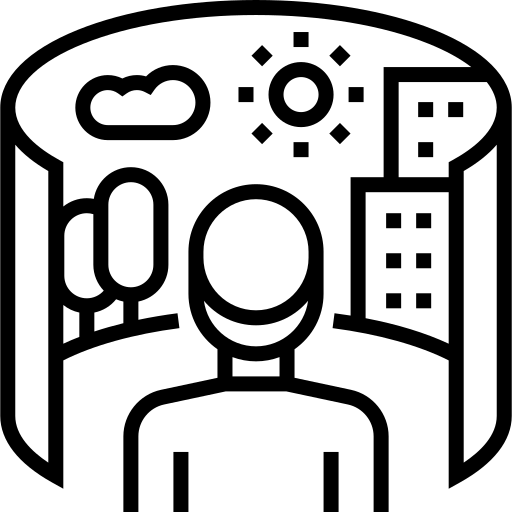
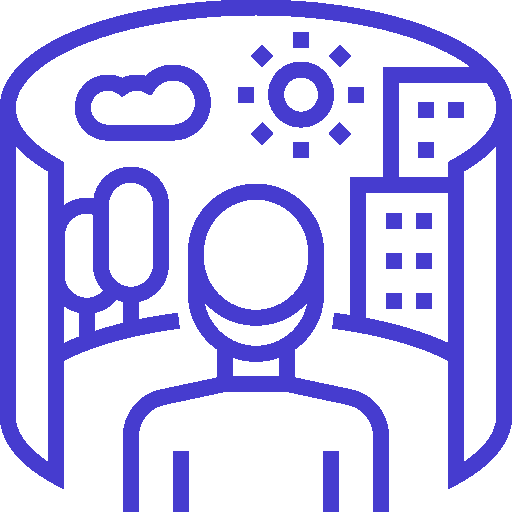
firefox`s bug fixed, new theme, avalible sort in Groups section

diff --git a/src/pages/quests-page.js b/src/pages/quests-page.js
@@ -52,9 +52,8 @@ const QuestBar = ({quests = [], setQuest, PagParams}) =>{
         variant="scrollable"
         scrollButtons
         allowScrollButtonsMobile
-        sx={{height: '4rem'}}
         >
-        {quests.length > 0 ? quests.map((el) => <Tab label={ el.name } onClick={() => setQuest(el.id)} />) : null }
+        {quests.length > 0 ? quests.map((el) => <Tab sx={{height: '4rem'}} label={ el.name } onClick={() => setQuest(el.id)} />) : null }
        </Tabs>
       }/>    
 }
@@ -64,10 +63,23 @@ const QuestBar = ({quests = [], setQuest, PagParams}) =>{
 
 
 function StudentsTable({
-  cur_quest_progress = {data: [], setData: {}}
+  cur_quest_progress = {data: [], setData: {}},
+  handleRequestSort
   }){
   
-  const columns = ['', 'ФИО', 'Поцент выполнения', 'Обзор подзадач', 'Время начала', 'Время завершения']
+  // const columns = ['', 'ФИО', 'Поцент выполнения', 'Обзор подзадач', 'Время начала', 'Время завершения']
+
+  
+  const columns = [
+    {colName: '', poleName: ""}, 
+    {colName: 'ФИО', poleName: "student_full_name", sortable: true},
+    {colName: 'Поцент выполнения', poleName: "quest_true_answer_count", sortable: true},
+    {colName: 'Обзор подзадач', poleName: "task_map", sortable: false},
+    {colName: 'Время начала', poleName: "quest_start_at", sortable: true},
+    {colName: 'Время завершения', poleName: "quest_end_at", sortable: true},
+    ]
+  
+  // onClick={sortable ? (e) => handleRequestSort(e, poleName) : null}
 
 
 // ===============   Output table after dealing with fetching cur_quest_progress   ===============
@@ -77,7 +89,7 @@ function StudentsTable({
         <Table stickyHeader>
           <TableHead>
             <TableRow>
-              {columns.map((el) => <TableCell> {el} </TableCell> )}
+              {columns.map(({colName, poleName, sortable}) => <TableCell onClick={sortable ? (e)=>handleRequestSort(e, poleName) : null}> {colName} </TableCell> )}
             </TableRow>
           </TableHead>
           <TableBody>
@@ -156,7 +168,7 @@ export const Items = (items, setGroup) => {
                 <List style={{width: '100%'}}>
                     <ListItemButton  sx={card} id={group.id} onClick={() => {console.log(' **** set group_id:', group.id); setGroup(group.id)}}>
                         <ListItemAvatar >
-                           { <Groups/> }
+                           { <Groups sx={{color: '#07378F'}}/> }
                         </ListItemAvatar>
 
                         <Typography style={{color: '#F6F7F6'}}>{group.name}</Typography>            
@@ -170,10 +182,13 @@ const GroupBar = (props) => {
     const {groups, Paginator, setGroup} = props
 
     // gradient: https://cssgradient.io/
+    // old color: linear-gradient(0deg, rgba(35,123,247,1) 42%, rgba(5,82,189,0.9654062308517157) 97%)
+    // red-theme: linear-gradient(0deg, rgba(150,16,34,1) 63%, rgba(219,34,53,1) 97%)
+    
     return <ColumnContainer style={{  
             justifyContent: 'space-between',
             alignItems: 'center',
-            background: 'linear-gradient(0deg, rgba(35,123,247,1) 42%, rgba(5,82,189,0.9654062308517157) 97%)',
+            background: 'linear-gradient(0deg, rgba(0,15,67,1) 42%, rgba(0,25,89,1) 97%)',
             width: '20%',
             height: 'calc(100vh - 64px)',
             flexWrap: 'nowrap',
@@ -192,7 +207,7 @@ const GroupBar = (props) => {
     </ColumnContainer>
 }
 
-async function getGroupsData(setData, Params={params: null, optional: null}) {
+async function getGroupsData(setData, Params={params: null}) {
   const groups = await getGroups(Params)
   setData(groups)
 }
@@ -202,7 +217,7 @@ async function getQuestsData(setData, Params){
   setData(quests)
 }
 
-async function getProgressData(setData, args = {group:{id: 'no_id'}, quest:{id: 'no_id'}}){
+async function getProgressData(setData, args = {group:{id: 'no_id'}, quest:{id: 'no_id'}, sortCol: '-id'}){
   const progress = await getProgress(args.group.id, args.quest.id)
   setData(progress.data)
 } 
@@ -217,10 +232,7 @@ export const QuestsPage = () => {
       limit: 10,
       page: 1,
       order: ['-id']},
-    optional: {
-      search: '', 
-      sort: {col: null, direction: 'asc'}
-    }
+    search: '', 
   }
 
   // params for pagination in /groups/search
@@ -229,18 +241,17 @@ export const QuestsPage = () => {
   // same for /quests/search
   const [QuestParams, setQuestParams] = useState({ params: {...defaultPaginationParams.params, limit: 4} })
 
-
   const [groups, setGroups] = useState({data:[], meta: {}})
   const {data: Data, meta: Meta} = groups
 
   const [quests, setQuests] = useState({data:[], meta: {}})
   const [progress, setProgress] = useState([{}])
-  const [chosen, setChosen] = useState({ group: null, quest: null })
+  const [chosen, setChosen] = useState({ group: null, quest: null, sortCol: '-id' })
 
 
   // init default state for chosen group`s quest progress after fetching someth
   if (!chosen.group && groups.data.length > 0 && quests.data.length > 0)
-      setChosen({ group: groups.data[0], quest: quests.data[0] })
+      setChosen({ group: groups.data[0], quest: quests.data[0], sortCol: '-id' })
     
   // refreshing groups
   useEffect(() => {
@@ -266,6 +277,14 @@ export const QuestsPage = () => {
     })
   }, [quests])
 
+  
+
+  const handleRequestSort = (event, poleName) => {
+    const order = [chosen.sortCol[0]==='-' ? poleName : '-'+poleName]
+    setChosen({...chosen, 
+      sortCol: order
+    })
+  };
 
   // paginator`s handlers
   const handleChangePage = (e, newPage) => {
@@ -326,7 +345,10 @@ export const QuestsPage = () => {
                   setChosen({...chosen, quest: {...chosen.quest, id: id }})
                 }}
                 />
-                <StudentsTable style={{ marginTop: '1rem'}} cur_quest_progress={ progress ? {data: progress} : null } />    
+                <StudentsTable 
+                  style={{ marginTop: '1rem'}} 
+                  cur_quest_progress={ progress ? {data: progress} : null } 
+                  handleRequestSort={handleRequestSort}/>    
             </ColumnContainer>
                 
             </div>

diff --git a/src/Utils/requests.js b/src/Utils/requests.js
@@ -46,10 +46,7 @@ async function API({url,
 }
 
 
-export async function getStudents({groupID, params=defaultParams, optional={search: '', sort: {col: '-full_name', direction: 'asc'} }}){
-    // handling emty initialized sort
-    if(optional.sort !== null) optional.sort = {col: '-full_name', direction: 'asc'}
-    const {col, direction} = optional.sort
+export async function getStudents({groupID, params=defaultParams, search='' }){
 
     const options = {  
         "filter":[ {
@@ -59,24 +56,21 @@ export async function getStudents({groupID, params=defaultParams, optional={sear
         ],
     }
 
-    if (optional.search !== '' && optional.search){ 
+    if (search !== '' && search){ 
         options["filter"] = [
         { 
             "column": 'full_name', 
             "operator": 'ilike', 
-            "value": '%' + optional.search + '%'
+            "value": '%' + search + '%'
         }]
     }
 
-    return await API({url: `students/search`, requestOptions: options, params: {...params, order: [col]}})
+    return await API({url: `students/search`, requestOptions: options, params: {...params}})
 }
 
 
-export async function getGroups({params=defaultParams, optional={search: '', sort: {col: '-name', direction: 'asc'} } }){
+export async function getGroups({params=defaultParams, search='' }){
     
-    if(optional.sort !== null) optional.sort = {col: '-name', direction: 'asc'}
-    const {col, direction} = optional.sort
-
     // for each group fetching all students - to know how many students in group
     let options = {
         "with": {
@@ -86,17 +80,17 @@ export async function getGroups({params=defaultParams, optional={search: '', sor
         }
     }
 
-    if (optional.search !== ''){ 
+    if (search !== ''){ 
         options["filter"] = [
         { 
             "column": 'name', 
             "operator": 'ilike', 
-            "value": '%' + optional.search + '%'
+            "value": '%' + search + '%'
         }]
     }
 
 
-    return await API({url: `groups/search`, requestOptions: options, params: {...params, order: [col]}})
+    return await API({url: `groups/search`, requestOptions: options, params: {...params}})
 }
 
 
@@ -115,14 +109,14 @@ export async function Del(endpoint, id){
 }
 
 // search can be used as in getGroups if need 
-export async function getQuests({params=defaultParams, optional={search: '' }}){
+export async function getQuests({params=defaultParams, search='' }){
     return await API({url: 'quests/search', params: params})
 }
 
 
-export async function getProgress(groupID, questID){
+export async function getProgress(groupID, questID, sortCol = '-id'){
     console.log('getProgress params: ', groupID, questID)
-    return await API({url: 'progress/get', method: 'get', params: {group_id: groupID, quest_id: questID}})
+    return await API({url: 'progress/get', method: 'get', params: {group_id: groupID, quest_id: questID, order: [sortCol]}})
 }
 
 

diff --git a/src/ContentTable/table.js b/src/ContentTable/table.js
@@ -75,10 +75,7 @@ export const InteractiveTable = (props) => {
       limit: 10,
       page: 1,
       order: ['-id']},
-    optional: {
-      search: '', 
-      sort: {col: null, direction: 'asc'}
-    }
+    search: '',
   })
   
   const [curRow, setRow] = useState({})
@@ -141,10 +138,8 @@ export const InteractiveTable = (props) => {
   const handleFilterByName = (e, col) => {
     setParams({
       ...Params, 
-      optional: {
-        ...Params.optional, 
-        search: e.target.value
-      }})
+      search: e.target.value
+    })
   };
 
   const handleOpenMenu = (e, row) => {
@@ -157,10 +152,14 @@ export const InteractiveTable = (props) => {
   }
 
 
-  const handleRequestSort = (event, property) => {
-    const isAsc = orderBy === property && order === 'asc';
-    setOrder(isAsc ? 'desc' : 'asc');
-    setOrderBy(property);
+  const handleRequestSort = (event, poleName) => {
+    const order = [Params.params.order[0][0]==='-' ? poleName : '-'+poleName]
+
+    setParams({...Params, params: {
+      limit: 10,
+      page: 1,
+      order: order},
+    })
   };
 
   const handleSelectAllClick = (event) => {
@@ -171,22 +170,6 @@ export const InteractiveTable = (props) => {
     }
     setSelected([]);
   };
-
-  const handleClick = (event, name) => {
-    const selectedIndex = selected.indexOf(name);
-    let newSelected = [];
-    if (selectedIndex === -1) {
-      newSelected = newSelected.concat(selected, name);
-    } else if (selectedIndex === 0) {
-      newSelected = newSelected.concat(selected.slice(1));
-    } else if (selectedIndex === selected.length - 1) {
-      newSelected = newSelected.concat(selected.slice(0, -1));
-    } else if (selectedIndex > 0) {
-      newSelected = newSelected.concat(selected.slice(0, selectedIndex), selected.slice(selectedIndex + 1));
-    }
-    setSelected(newSelected);
-  };
-
 
 
   
@@ -214,7 +197,7 @@ export const InteractiveTable = (props) => {
         </Stack>
         
         <Card>
-          <UserListToolbar numSelected={selected.length} filterName={Params.optional.search} onFilterName={handleFilterByName} />
+          <UserListToolbar numSelected={selected.length} filterName={Params.search} onFilterName={handleFilterByName} />
 
           
             <TableContainer>
@@ -296,7 +279,7 @@ export const InteractiveTable = (props) => {
 
                           <Typography variant="body2">
                             Ничего не найдено по запросу &nbsp;
-                            <strong>&quot;{Params.optional.search}&quot;</strong>.
+                            <strong>&quot;{Params.search}&quot;</strong>.
                             <br /> Попробуйте проверить регистр или вводить слова целиком.
                           </Typography>
                         </Paper>

diff --git a/src/pages/mod-groups-page.js b/src/pages/mod-groups-page.js
@@ -19,11 +19,11 @@ export const ModGroupsPage = () => {
     
     // last column('') - for 'options' pic!
     const columns = [
-      {colName: '', poleName: ''},
-      {colName: 'Код группы', poleName: "name"},
-      {colName: 'Число студентов', poleName: 'countStudents'},
-      {colName: 'Почта группы', poleName: 'email'},
-      {colName: '', poleName: ''}]
+      {colName: '', poleName: '', sortable: false},
+      {colName: 'Код группы', poleName: "name", sortable: true},
+      {colName: 'Число студентов', poleName: 'countStudents', sortable: false},
+      {colName: 'Почта группы', poleName: 'email', sortable: true},
+      {colName: '', poleName: '', sortable: false}]
 
     const poles={
       to_fill: [{

diff --git a/src/ContentTable/user_section/UserListHead.js b/src/ContentTable/user_section/UserListHead.js
@@ -42,7 +42,7 @@ export default function UserListHead({
   return (
     <TableHead>
       <TableRow>
-        {headLabel.map(({colName, id, alignRight}) => (
+        {headLabel.map(({colName, poleName, sortable, id, alignRight}) => (
           <TableCell
             key={id}
             align={alignRight ? 'right' : 'left'}
@@ -52,7 +52,7 @@ export default function UserListHead({
               hideSortIcon
               active={orderBy === id}
               direction={orderBy === id ? order : 'asc'}
-              onClick={createSortHandler(id)}
+              onClick={sortable ? createSortHandler(poleName) : null}
             >
               {colName} 
               {orderBy === id ? (

diff --git a/src/pages/mod-students-page.js b/src/pages/mod-students-page.js
@@ -14,7 +14,7 @@ async function getData(setData, Params={params: {}, optional: {}}, groupID){
 export const ModStudentsPage = (props) => {
 
     // last column('') - for 'options' pic!
-    const columns = [{colName: '', poleName: ""}, {colName: 'ФИО', poleName: "full_name"}, {colName: '', poleName: ""}]
+    const columns = [{colName: '', poleName: ""}, {colName: 'ФИО', poleName: "full_name", sortable: true}, {colName: '', poleName: ""}]
 
     const {row} = useLocation().state
     const crumbs = useLocation().pathname.split('/')

diff --git a/src/components/head.js b/src/components/head.js
@@ -32,7 +32,8 @@ export const Head = () => {
     setAnchorElUser(null);
   };
 
-  return ( <AppBar position="static">
+  // red-theme: #db2235
+  return ( <AppBar position="static" sx={{background: 'linear-gradient(0deg, rgba(0,25,89,0.9177871832326681) 42%, rgba(0,15,67,1) 97%)'}}>
       <Box>
         <Toolbar>
         <img src={VR} width={'50px'} height={'50px'} style={{marginRight: '2rem', cursor: 'pointer', flexGrow: 0}}
